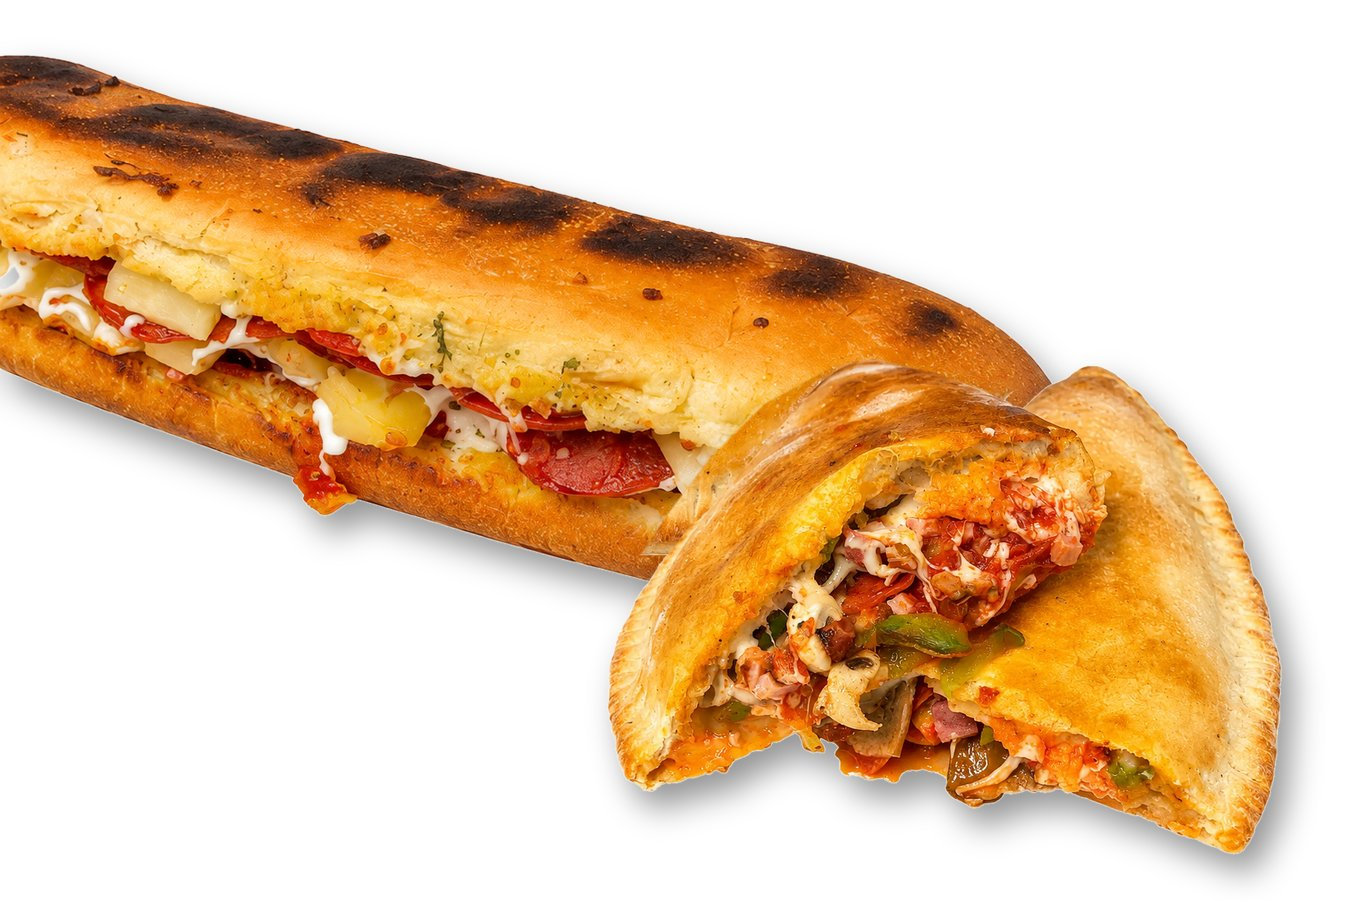
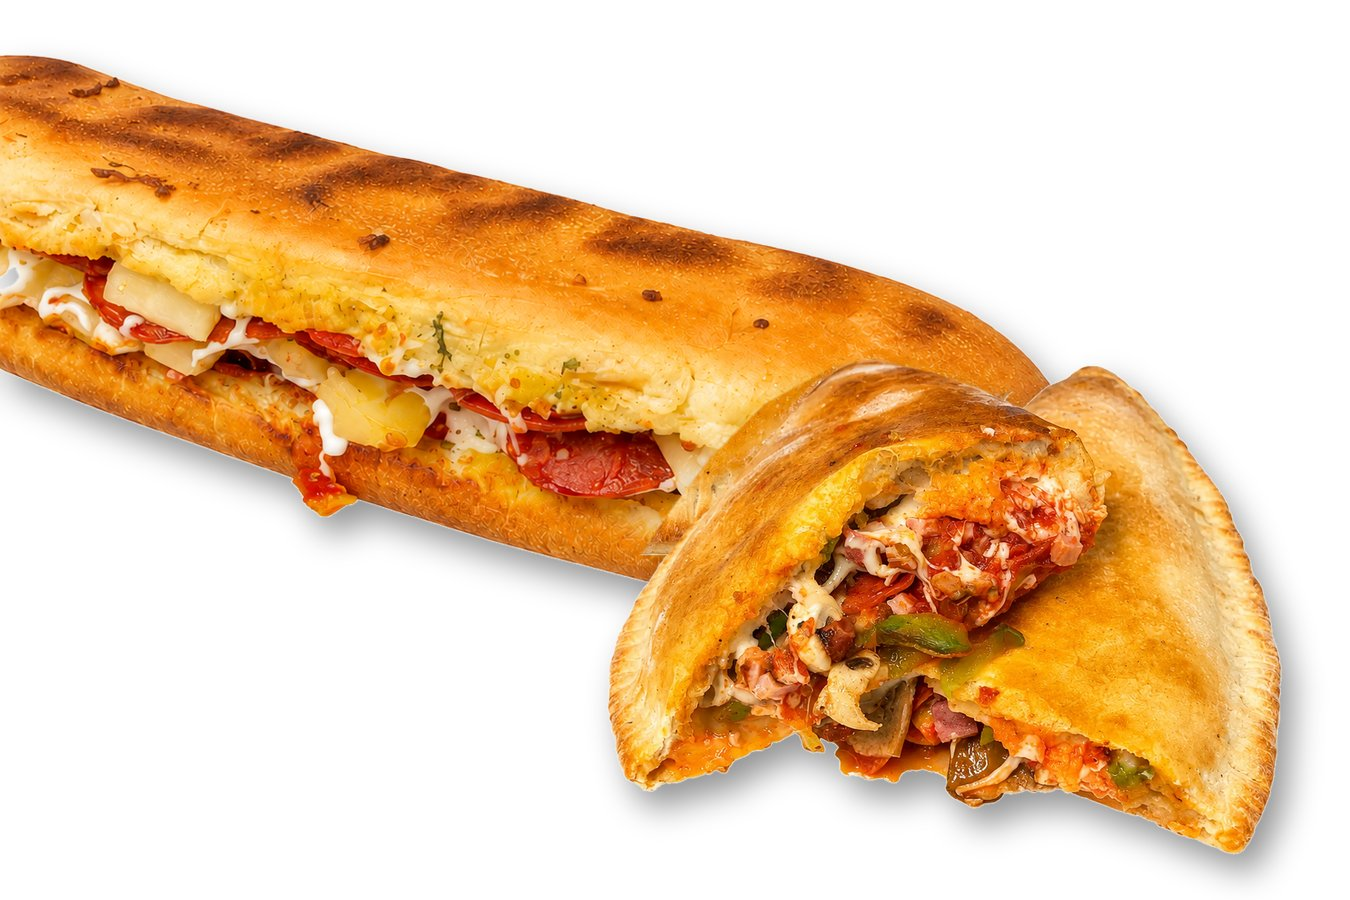
New sub photos; Remove note link on note boxes
Pizza Sub and Meatball Sub cards and the Special Menu cover use the new
photos (originals moved to source-photos/special-menu, made by
scripts/special-images.py). Note boxes (items and whole order) get a
small grey 'Remove note' link on the right; with text it asks 'Remove
this note? Keep / Yes, remove' first, an empty box just closes.

Claude-Session: https://claude.ai/code/session_01GwuNKQ4EhJTqGbbawQ6M8A

Changed region(s): [[0.0, 0.0622, 0.7778, 0.6533], [0.4356, 0.3733, 0.4978, 0.4044]]

diff --git a/components/ItemNote.js b/components/ItemNote.js
@@ -36,18 +36,27 @@ export default function ItemNote({ value, onChange }) {
           + Add a note for the kitchen
         </button>
       ) : (
-        <label className="item-note__field">
-          <span className="item-note__label">Note for the kitchen (optional)</span>
-          <textarea
-            ref={boxRef}
-            className="item-note__box"
-            rows={2}
-            maxLength={NOTE_MAX}
-            value={value || ""}
-            onChange={(e) => onChange(e.target.value)}
-            onClick={(e) => e.stopPropagation()}
+        <>
+          <label className="item-note__field">
+            <span className="item-note__label">Note for the kitchen (optional)</span>
+            <textarea
+              ref={boxRef}
+              className="item-note__box"
+              rows={2}
+              maxLength={NOTE_MAX}
+              value={value || ""}
+              onChange={(e) => onChange(e.target.value)}
+              onClick={(e) => e.stopPropagation()}
+            />
+          </label>
+          <NoteRemove
+            hasText={!!String(value || "").trim()}
+            onRemove={() => {
+              onChange("");
+              setOpen(false);
+            }}
           />
-        </label>
+        </>
       )}
       <style jsx>{`
         .item-note {
@@ -103,4 +112,73 @@ export default function ItemNote({ value, onChange }) {
 export function withNote(item, note) {
   const t = String(note || "").trim();
   return t ? { ...item, note: t } : item;
+}
+
+// "Remove note" under a note box: small grey link on the right, away from
+// the main buttons. If there's text it asks first ("Remove this note?"), so
+// a stray tap never wipes a note; an empty box just closes.
+export function NoteRemove({ hasText, onRemove }) {
+  const [asking, setAsking] = useState(false);
+  useEffect(() => {
+    if (!hasText) setAsking(false);
+  }, [hasText]);
+  const stop = (e) => e.stopPropagation();
+  return (
+    <div className="note-remove" onClick={stop}>
+      {!asking ? (
+        <button type="button" className="note-remove__link" onClick={() => (hasText ? setAsking(true) : onRemove())}>
+          Remove note
+        </button>
+      ) : (
+        <span className="note-remove__ask">
+          Remove this note?
+          <button type="button" className="note-remove__link" onClick={() => setAsking(false)}>
+            Keep
+          </button>
+          <button
+            type="button"
+            className="note-remove__link note-remove__link--yes"
+            onClick={() => {
+              setAsking(false);
+              onRemove();
+            }}
+          >
+            Yes, remove
+          </button>
+        </span>
+      )}
+      <style jsx>{`
+        .note-remove {
+          display: flex;
+          justify-content: flex-end;
+          margin-top: 6px;
+        }
+        .note-remove__ask {
+          display: flex;
+          flex-wrap: wrap;
+          align-items: center;
+          justify-content: flex-end;
+          gap: 4px 16px;
+          font-size: var(--fs-min);
+          color: var(--text-brown);
+        }
+        .note-remove__link {
+          padding: 4px 0;
+          border: 0;
+          background: none;
+          font-family: var(--font-body);
+          font-size: var(--fs-min);
+          font-weight: var(--w-medium);
+          text-decoration: underline;
+          text-underline-offset: 3px;
+          color: #777;
+          cursor: pointer;
+        }
+        .note-remove__link--yes {
+          color: #b00020;
+          font-weight: var(--w-semibold);
+        }
+      `}</style>
+    </div>
+  );
 }

diff --git a/pages/cart.js b/pages/cart.js
@@ -1,4 +1,5 @@
 // pages/cart.js
+import { NoteRemove } from "../components/ItemNote";
 import { ORDER_NOTE_MAX } from "../utils/orderRules";
 import { soldOutIn } from "../utils/availability";
 import { DRINK_CATEGORIES, THUMB_MAX, drinkImage, findDrink } from "../utils/drinkCatalog";
@@ -274,17 +275,26 @@ function OrderNote({ cart }) {
     );
   }
   return (
-    <label className="cart-orderNote">
-      <span className="cart-orderNote__label">Note for your whole order (optional)</span>
-      <textarea
-        ref={boxRef}
-        className="cart-orderNote__box"
-        rows={2}
-        maxLength={ORDER_NOTE_MAX}
-        value={value}
-        onChange={(e) => cart.setOrderNote?.(e.target.value)}
+    <div className="cart-orderNote">
+      <label>
+        <span className="cart-orderNote__label">Note for your whole order (optional)</span>
+        <textarea
+          ref={boxRef}
+          className="cart-orderNote__box"
+          rows={2}
+          maxLength={ORDER_NOTE_MAX}
+          value={value}
+          onChange={(e) => cart.setOrderNote?.(e.target.value)}
+        />
+      </label>
+      <NoteRemove
+        hasText={!!value.trim()}
+        onRemove={() => {
+          cart.setOrderNote?.("");
+          setOpen(false);
+        }}
       />
-    </label>
+    </div>
   );
 }
 
